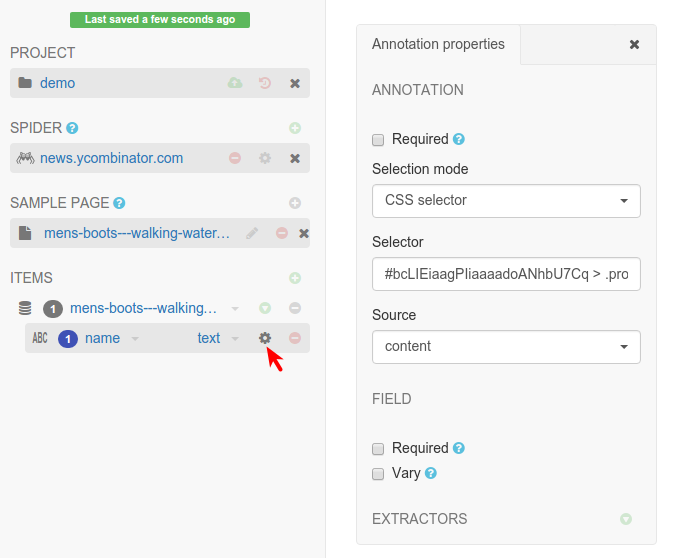
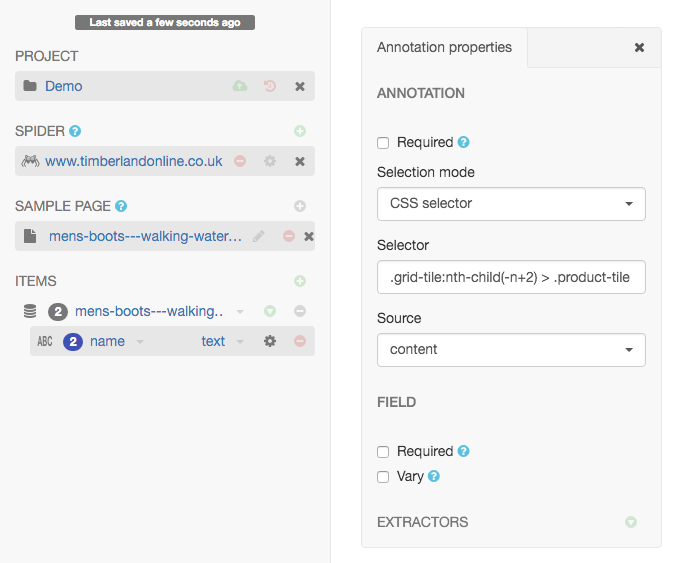
Updated text, screenshots etc. for 2.0

diff --git a/docs/getting-started.rst b/docs/getting-started.rst
@@ -6,66 +6,64 @@ Getting Started
 
 .. note:: If you don't have Portia running yet, please read the :ref:`Installation guide <installation>` first. If you're using a hosted version of Portia on a platform like `Scrapinghub <http://scrapinghub.com>`_, you don't need to install anything.
 
-This tutorial will briefly cover how to scrape amazon.com_ with Portia. Your goal here is to extract the name and the price from Amazon.com_ products.
+This tutorial will briefly cover how to begin extracting data with Portia.
 
-.. _amazon.com: http://amazon.com/
+Creating a spider
+=================
 
-First, you have to create a Portia project, open it and then provide the URL that you want to scrape.
+Let's start by creating a project. Enter a URL and Portia will render it like below:
 
-.. image:: _static/portia-landing-page.png
-    :alt: Portia landing page
 
-After doing so, Portia will load the URL you asked into its browser and you should see a page like this:
+.. This tutorial will briefly cover how to retrieve products from Amazon.com_ using Portia.
+
+.. .. _amazon.com: http://amazon.com/
+
+.. First, create a Portia project and enter a URL. Portia will render it like below:
 
 .. image:: _static/portia-main-page.png
     :alt: Portia main page
 
-Now, you have to **create a Spider**, clicking in the ``New spider`` button, and then you will see the page below:
+Click the ``New spider`` button to create a new spider. Portia will add the page's URL as a start page automatically. Start pages are used to seed the crawl and Portia will visit them when you start the spider to find more links.
 
-.. image:: _static/portia-new-spider.png
-    :alt: Newly created spider
-
-You can configure the spider on the left sidebar. You may notice the URL you entered has been added as a **start page**. Start pages act as seeds for the crawl and the spider will visit these first.
-
-Now that you've created your spider, you need to define the data you want to extract. You'll do this using :ref:`samples <samples>`.
-
-
-Creating a Sample
+Creating a sample
 =================
 
-A **sample** is a template describing which data you want to extract from a page. This sample will be used by Portia to extract data from other pages who may have different contents but similar structure.
+A sample describes how data should be extracted from the page. Portia will use your samples to extract data from other pages with a similar structure.
 
-Portia acts like a web browser, so you can navigate between pages as you would normally. You have to navigate to a page you want to extract data from and click ``New sample`` to start creating a sample. (any product page works for this tutorial)
+Portia works like a web browser, so you can navigate between pages as you would normally. Navigate to a page you want to scrape 	and then the ``New sample`` button to create a :ref:`sample <samples>` of the page.
 
-Now, you have to :ref:`annotate <what-are-annotations>` the page, by clicking in the elements you want to scrape and setting a proper field name and data type in the left sidebar. Portia will create an :ref:`item <items>` schema from the elements that you annotated and will use it as the data format for the scraped :ref:`items <items>`.
+.. image:: _static/portia-new-spider.png
+    :alt: Newly created sample
+
+Now that you've created the sample, you can begin :ref:`annotating <what-are-annotations>` the page. Annotations link a piece of data n the page to an item field. You'll notice that you can highlight elements on the page, if you click on it will create a new field to which the element will be extracted. 
+
+Portia will create an :ref:`item <items>` schema from the elements that you annotated and will use it as the data format for the scraped :ref:`items <items>`.
+
 
 .. image:: _static/portia-annotation.png
     :alt: Annotating a page
 
-You can see a preview with the items that Portia would collect from that page in the right sidebar, given the sample that you are creating.
+You can see a preview of the items your sample will extract on the right. Once you've annotated all the data you wish to extract, close the sample. Your spider is :ref:`ready to run <running-spider>`, but you may want to configure it further in which case you should continue reading.
 
-Once you have selected all the elements that you want to scrape (in this case, title and price), you have to close the sample by clicking in ``Close sample``. 
-
-The sample is everything that Portia needs in order to know which data you want to extract and how to extract them from the web pages.
-
-Your spider is ready to run. But you might want to follow the next section to learn how to define which pages Portia will crawl.
-
-
-Configuring the Crawling
+Configuring your crawler
 ========================
-Portia crawls a website starting from the URLs defined on ``START PAGES``. You can easily add more start pages (also called as **seed URLs**) to your spider, if you need so:
+
+To start crawling a website, Portia needs one or more URLs to visit first so it can gather further links to crawl. You can define these URLs on the left under ``START PAGES``.
 
 .. image:: _static/portia-add-start-pages.png
     :alt: Adding start pages
 
 
-By default, Portia follows all the in-domain URLs that it finds while crawling. However, sometimes you don't want it to follow every link. For example, some pages on amazon have a completely different structure (categories pages, help pages, etc), so they don't match the sample you just created.
+Portia follows all in-domain URLs by default. In many cases you'll want to limit the pages Portia will visit so requests aren't wasted on irrelevant pages. 
 
-In this case, you might want to change the default link crawling policy, setting Portia to follow only links from product pages (ie, pages whose URL contains ``/dp/``). To do so, you can change the crawling policy to ``Configure URL patterns`` and add ``/dp/`` as the URL pattern in the crawling rules:
+To do this, you can set follow and exclude patterns that whitelist and blacklist URLs respectively. These can be configured by changing the crawling policy to ``Configure URL patterns``. 
+
+Every Amazon product URL contains ``/dp/``, so you can add that as a follow pattern and Portia will know to only follow such URLs.
 
 .. image:: _static/portia-configuring-crawling.png
     :alt: Configuring the crawling
 
-Next
-====
-Now that you created the sample and defined the crawling rules, it's time to :ref:`run <running-spider>` your spider.
+What's next?
+============
+
+Once you've created your samples and configured crawling behavior, it's time to :ref:`run <running-spider>` your spider.

diff --git a/docs/samples.rst b/docs/samples.rst
@@ -7,7 +7,7 @@ Samples
 What are samples?
 =================
 
-When the crawler visits a page, the page is matched against each sample and samples with more annotations take precedence over those with less. If the page matches a sample, data will be extracted using the sample's annotations to yield an item (assuming all required fields are filled). Samples exist within the context of a spider and are made up of annotations which define the elements you wish to extract from a page. Within the sample you define the item you want to extract as well as mark any fields that are required for that item.
+When the crawler visits a page, it matches the page against each sample. Samples with more annotations take precedence over those with less. If the page matches a sample, it will use the sample's annotations to extract data. Assuming all required fields are filled, it will yield an item. Spiders consist of one or more samples and each sample is made up of annotations that define the elements you wish to extract. Within the sample you define the item you want to extract and mark required fields for that item.
 
 .. _what-are-annotations:
 
@@ -66,7 +66,7 @@ And then you can select use any built-in extractors or create your own extractor
 Multiple fields
 ---------------
 
-It's possible to extract multiple fields using a single annotation if there are several properties you want to extract from an element. For example, if there was an image on the page, you could map the ``src`` attribute containing the image URL to one field, and you could map the ``alt`` attribute to another.
+It's possible to extract multiple fields using a single annotation if there are several properties you want to extract from an element. For example, if there was an image you wanted, you could map the ``src`` attribute that contains the image URL to one field, and the ``alt`` attribute to another.
 
 You can do it in the ``Inspector`` panel in the top left of the screen:
 
@@ -80,11 +80,17 @@ Just click the ``+`` button right after an attribute to add a new field based on
 Multiple samples
 ================
 
-It's often necessary to use multiple samples within one spider, even if you're only extracting one item type. Some pages containing the same item type may have a different layout or fields missing, and you will need to accommodate those pages by creating a sample for each layout variation.
+It's often necessary to use multiple samples within one spider, even if you're only extracting one item type. Some pages containing the same item type may have a different layout or fields missing, and you will need to accommodate for those pages by creating a sample for each variation in layout.
+
+Sample precedence
+-----------------
 
 The more annotations a sample has, the more specific the data being extracted and therefore less chance of a false positive. For this reason, samples with more annotations take precedence over those with less annotations. If a subset of samples contains equal number of annotations per sample, then within that subset samples will be tried in the order they were created from first to last. In other words, samples are tried sequentially in order of number of annotations first, and age second.
 
 If you are working with a large number of samples, it may be difficult to ensure the correct sample is applied to the right page. It's best to keep samples as strict as possible to avoid any false matches. It's useful to take advantage of the ``-just required-`` option and annotate elements that will always appear on matching pages to reduce the number of false positives.
+
+Example
+-------
 
 Consider the following example:
 

diff --git a/docs/examples.rst b/docs/examples.rst
@@ -11,7 +11,7 @@ Most e-commerce sites use pagination to spread results across multiple pages.
 
 When crawling these sites with Portia, there are some best practices you should follow:
 
-	* Use the target categories as the start URL.
+	* Use the target categories as start pages.
 	* Use follow patterns to limit Portia to only visit category and article pages.
 
 This will prevent Portia from visiting unnecessary pages so you can crawl the items a lot faster.
@@ -26,9 +26,11 @@ To ensure the spider only visits relevant pages, you'll need to limit crawling t
 .. image:: _static/portia-follow-patterns.png
 	:alt: Follow patterns
 
-You can use follow patterns to filter URLs with `regular expressions <https://en.wikipedia.org/Regular_expressions>`_. You can see which links will be followed by clicking the |link-symbol| button (toggle highlighting) to the right of Portia's URL bar. Followed links will be highlighted in green and excluded links in red.
+You can use follow patterns to filter URLs with `regular expressions <https://en.wikipedia.org/Regular_expressions>`_. You can see which links will be followed by clicking the |icon-toggle-links| button (toggle highlighting) to the right of Portia's URL bar. Followed links will be highlighted in green and excluded links in red.
 
-.. |link-symbol| unicode:: 0x1F517
+.. |icon-toggle-links| image:: _static/portia-icon-add-repeat.png
+    :width: 16px
+    :height: 16px
 
 As you can see above, the spider will now only visit the boots and shoes category pages and their product listings. To ensure that only products belonging to the target categories are visited, we filter against the ``catID`` parameter value in the URL.
 
@@ -49,7 +51,7 @@ This way, you can tweak your selections, making them more or less specific, for 
 Extracting a single attribute to multiple fields
 ================================================
 
-You can extract an element's attribute to multiple fields by creating an annotation for each field.
+Portia supports multiple annotations for the same attribute. You can take advantage of this to extract an attribute to multiple fields by simply creating an annotation for each field.
 
 Scraping multiple items from a single page
 ==========================================
@@ -58,14 +60,9 @@ You'll often need to retrieve several items from a single page. You can do this 
 
 Let's revisit the `timerberlandonline.co.uk <http://www.timberlandonline.co.uk>`_ spider and demonstrate this process by annotating a couple of pairs of shoes.
 
-Click the tiles icon to select the repeating element tool:
-
-.. image:: _static/portia-multi-first.png
-	:alt: Start URLs
-
-Then click an element, and Portia will find all similar elements and link them to the same field:
+Click the tiles icon to select the repeating element tool and then click an element, and Portia will find all similar elements and link them to the same field:
 
 .. image:: _static/portia-multi-preview.png
 	:alt: Start URLs
 
-Now it's just a matter of doing the same for every other field you need, and voilà!
+Now you just need to do same for the other fields, and you're done!

diff --git a/docs/spiders.rst b/docs/spiders.rst
@@ -4,7 +4,7 @@
 Spiders
 =======
 
-Spiders are web crawlers that consist of one or more :ref:`samples <samples>`.
+Spiders are web crawlers that use :ref:`samples <samples>` to extract data from the pages it visits.
 
 .. _spider-properties:
 
@@ -18,13 +18,13 @@ You can access your spider's properties by clicking the gear icon located right 
 
 
 Configuring login details
-^^^^^^^^^^^^^^^^^^^^^^^^^
+-------------------------
 
-If you need to log into a site, you can configure login details by ticking 'Perform login' in the :ref:`spider properties <spider-properties>` menu. Then you can set the login URL, username and password.
+If you need to log into a site, you can configure login details by ticking 'Perform login' in the :ref:`spider properties <spider-properties>` menu. Here you can set the login URL, username and password.
 
 
 Enabling JavaScript
-^^^^^^^^^^^^^^^^^^^
+-------------------
 
 You can enable JavaScript in your spider by ticking ``Enable JavaScript`` in the :ref:`spider properties <spider-properties>` menu. Note that you'll need to set the ``SPLASH_URL`` Scrapy setting to your Splash endpoint URL for JavaScript to work during the crawl.
 
@@ -33,7 +33,7 @@ Start pages and link crawling
 
 Start pages are the initial URLs that Portia will visit to start the crawl. You can add and remove start pages on the left menu.
 
-You can choose how Portia will follow links under ``Link Crawling``.
+You can choose how Portia will follow links under ``LINK CRAWLING``.
 
 .. image:: _static/portia-spider-link-crawling.png
     :alt: Link crawling properties
@@ -43,14 +43,14 @@ You can choose how Portia will follow links under ``Link Crawling``.
 * Don't follow links - only visit start URLs.
 * Configure url patterns - use regular expressions to choose which URLs to follow.
 
-When using the ``Configure url patterns`` option, you can define the follow/exclude patterns and choose whether to respect the ``nofollow`` attribute. Click the gear icon to show the link crawling options where you can set the follow/exclude patterns.
+The ``Configure url patterns`` option lets you set follow and exclude patterns as well as choose whether to respect the ``nofollow`` attribute. Click the gear icon to show the link crawling options where you can set the follow/exclude patterns.
 
 .. _running-spider:
 
 Running a spider
 ================
 
-Projects you have created in Portia will reside in ``slyd/data/projects``. You can use ``portiacrawl`` to run a spider from one of your projects::
+Portia will save your projects in ``slyd/data/projects``. You can use ``portiacrawl`` to run a spider::
 
     portiacrawl PROJECT_PATH SPIDER_NAME
 

diff --git a/docs/installation.rst b/docs/installation.rst
@@ -9,7 +9,7 @@ Vagrant (recommended)
 
 Checkout the repository::
 
-    $ git clone https://github.com/scrapinghub/portia
+    git clone https://github.com/scrapinghub/portia
 
 You will need both `Vagrant <http://www.vagrantup.com/downloads.html>`_ and `VirtualBox <https://www.virtualbox.org/wiki/Downloads>`_ installed.
 
@@ -17,7 +17,23 @@ Run the following in Portia's directory::
 
     vagrant up
 
-This will launch an Ubuntu virtual machine, build Portia and start the ``slyd`` server. You'll then be able to access Portia at ``http://localhost:9001``. You can stop the ``slyd`` server using ``vagrant suspend`` or ``vagrant halt``. To run ``portiacrawl`` you will need to SSH into the virtual machine by running ``vagrant ssh``.
+This will launch an Ubuntu virtual machine, build Portia and start the ``slyd`` server. You can then access Portia at ``http://localhost:9001``. You can stop the ``slyd`` server using ``vagrant suspend`` or ``vagrant halt``. To run ``portiacrawl``, you will need to SSH into the virtual machine by running ``vagrant ssh``.
+
+Troubleshooting
+---------------
+
+If the following error occurs::
+
+    The SSH command responded with a non-zero exit status. Vagrant
+    assumes that this means the command failed. The output for this command
+    should be in the log above. Please read the output to determine what
+    went wrong.
+
+You will need to start Portia manually under sudo::
+
+    vagrant ssh
+    $ sudo service slyd start
+    $ sudo service nginx start
 
 Docker
 ======
@@ -45,9 +61,6 @@ To run `portiacrawl` add `/app/slybot/bin/portiacrawl <PROJECT_PATH> [SPIDER] [O
 
 Debian
 ======
-
-Running Portia Locally
-----------------------
 
 **These instructions are only valid for a Debian based OS**
 

diff --git a/docs/items.rst b/docs/items.rst
@@ -6,7 +6,7 @@ Items
 
 An item refers to a single item of data scraped from the target website. A common example of an item would be a product for sale on an e-commerce website. It's important to differentiate **item** and **item definition**. In Portia, an item definition or item type refers to the schema of an item rather than the item itself. For example, ``book`` would be an item definition, and a specific book scraped from the website would be an item. An item definition consists of multiple fields, so using the example of a product you might have fields named ``name``, ``price``, ``manufacturer`` and so on. We use annotations to extract data from the page into each of these fields.
 
-To ensure certain fields are extracted, you can set the **Required** flag on each required field and Portia will discard an item if any required fields are missing. Portia will also remove any duplicate items by default.
+To ensure certain fields are extracted, you can set the **Required** flag on each required field. Portia will discard an item if any required fields are missing. Portia will also remove any duplicate items by default.
 
 In some cases you may have fields where the value can vary despite being the same item, in which case you can mark them as **Vary**. This will ignore the field when checking for duplicates. It’s important to only use **Vary** when necessary, as misuse could easily lead to duplicate items being stored. The ``url`` field is a good example of where **Vary** is useful, as the same item may have multiple URLs. If the ``url`` field wasn’t marked as **Vary**, each duplicate item would be seen as unique because its URL would be different.
 

diff --git a/docs/projects.rst b/docs/projects.rst
@@ -4,7 +4,7 @@
 Projects
 ========
 
-Projects in Portia consist of one or more :ref:`spiders <spiders>` and can be deployed to any `scrapyd`_ instance.
+A project in Portia consists of one or more :ref:`spiders <spiders>` and can be deployed to any `scrapyd`_ instance.
 
 Versioning
 ==========
@@ -66,11 +66,11 @@ When this env variable is set the database can be initialized by running the bin
 Deployment
 ==========
 
-Portia projects can be deployed using `scrapyd`_. You can deploy a Portia project by going into ``slyd/data/projects/PROJECT_NAME`` and adding your target to ``scrapy.cfg``. You can then run ``scrapyd-deploy`` to deploy your project using the default deploy target, or specify a target and project using the following::
+You can deploy your Portia projects using `scrapyd`_. Change directory into ``slyd/data/projects/PROJECT_NAME`` and add your target to ``scrapy.cfg``. You'll then be able to run ``scrapyd-deploy`` which will deploy your project using the default deploy target. Alternatively, you can specify a target and project using the following::
 
     scrapyd-deploy your_scrapyd_target -p project_name
 
-and then schedule your spider with::
+Once your spider is deployed, you can schedule your spider via ``schedule.json``::
 
     curl http://your_scrapyd_host:6800/schedule.json -d project=your_project_name -d spider=your_spider_name
 

diff --git a/docs/index.rst b/docs/index.rst
@@ -21,4 +21,3 @@ Indices and tables
 * :ref:`genindex`
 * :ref:`modindex`
 * :ref:`search`
-
